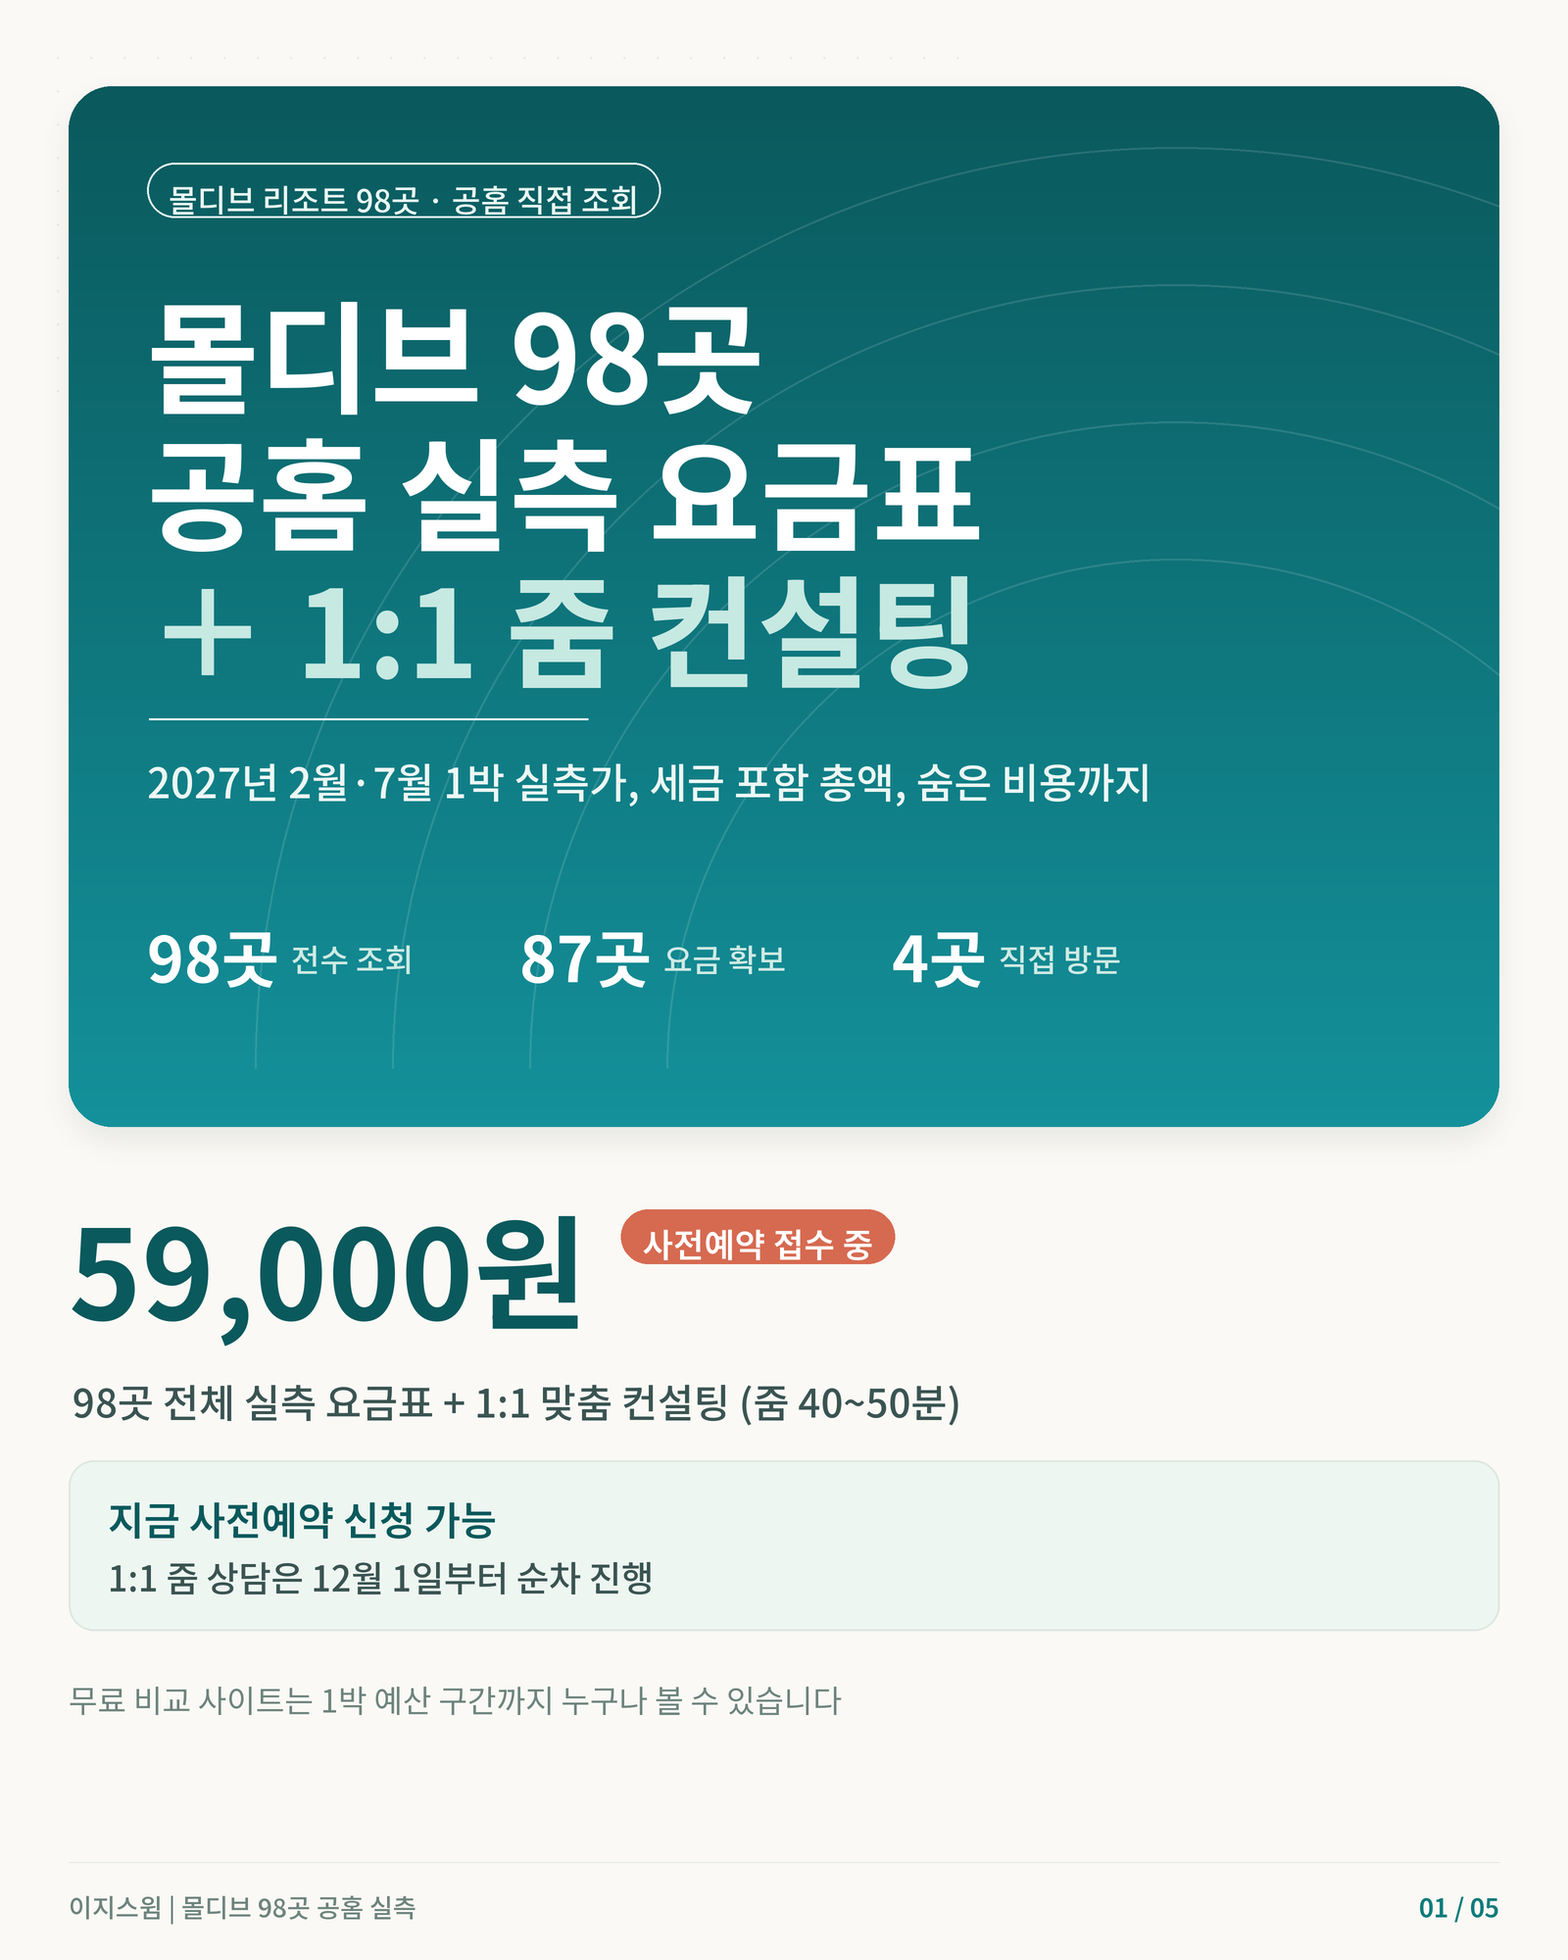
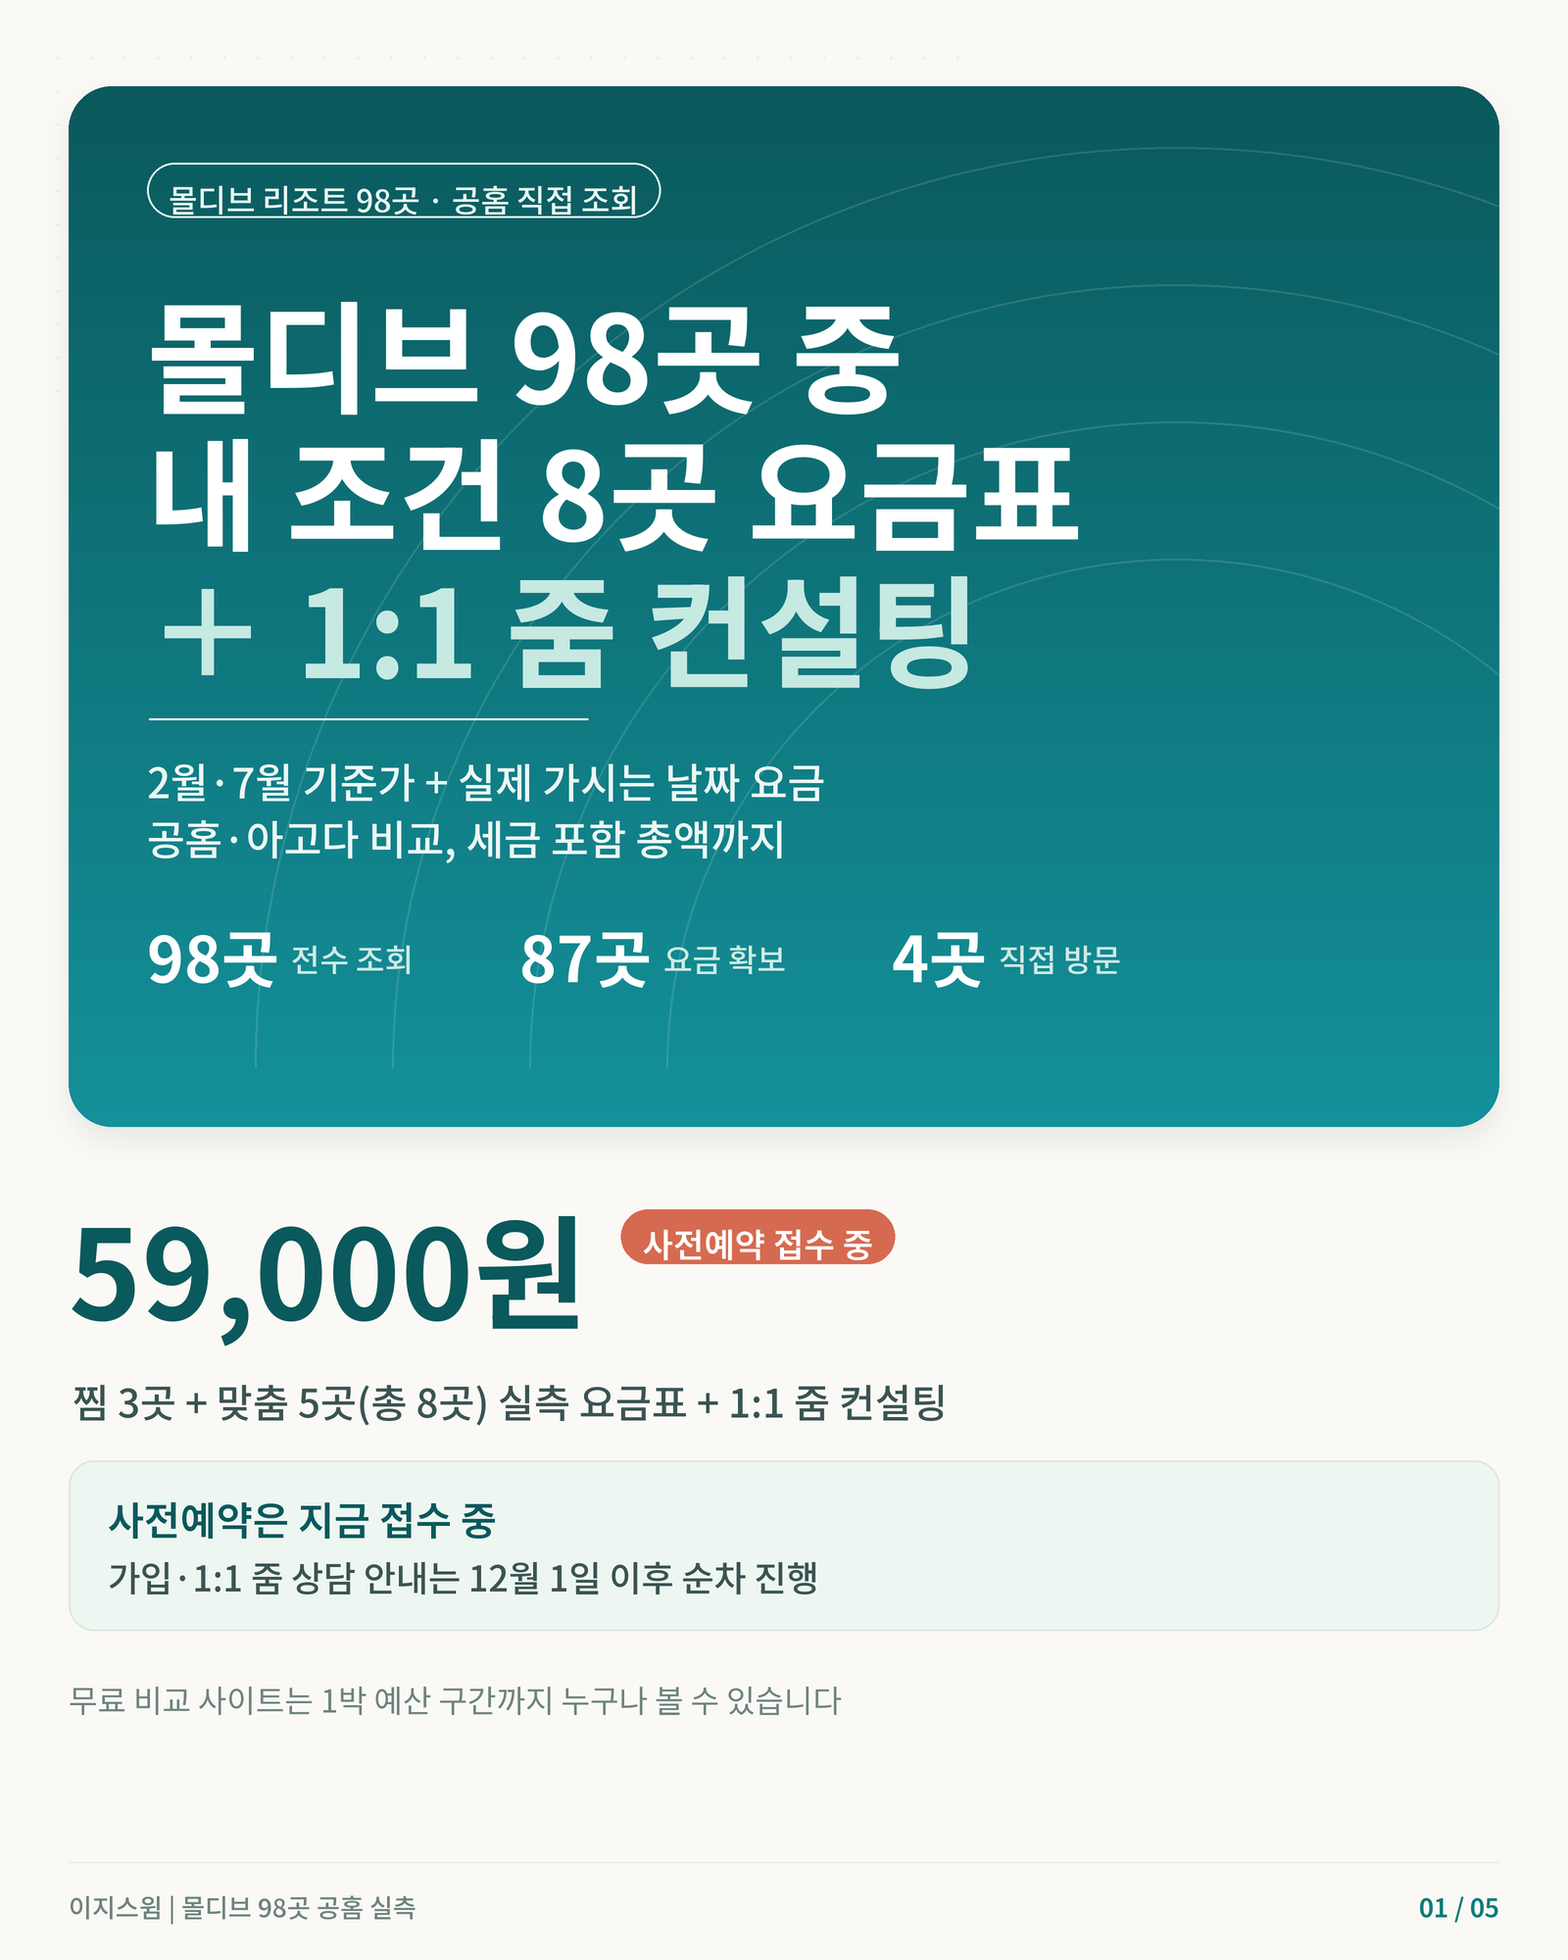
상세카드 문구를 '찜 3곳 + 맞춤 5곳(총 8곳) 실측 요금표'로 정리, 상담 12월 1일 이후 순차로 통일

diff --git a/index.html b/index.html
@@ -564,7 +564,7 @@ body{padding-bottom:86px}
           <div>
             <div class="eyebrow">이지의 몰디브 자료</div>
             <h2>정확한 2·7월 실측가가 필요하세요?</h2>
-            <p>리조트별 공홈 실측가·세금 포함 총액 계산표·7월 할인율은 59,000원 패키지에서 확인하세요. 무료 페이지는 예산대까지 보여드려요.</p>
+            <p>찜한 3곳 + 조건 맞춤 5곳(총 8곳)의 2·7월 기준가와 희망 날짜 실측가, 세금 포함 총액은 59,000원 패키지에서 확인하세요. 무료 페이지는 예산대까지 보여드려요.</p>
           </div>
           <div class="btns" style="display:flex;gap:7px;flex-wrap:wrap">
             <a class="btn primary" href="https://docs.google.com/forms/d/e/1FAIpQLSfBbRKPUfFeXjRlNFHVqY-H5gHcgKblJUALwyOMBn5VUtnkIw/viewform" target="_blank" rel="noopener">패키지 신청 (구글폼) ↗</a>
@@ -615,7 +615,7 @@ body{padding-bottom:86px}
         <section class="catalog">
           <div class="eyebrow">Maldives field notes</div>
           <h2>나의 바다, 전체 비교표</h2>
-          <p class="sub">성인 2인 · 객실 1실 기준으로 2027년 2월·7월 슬롯을 2026년 11월 24일에 조회한 기록입니다. 무료 페이지는 <b>1박 예산 구간</b>과 리조트 특징·장단점까지만 보여드리고, 리조트별 공홈 실측 금액과 세금 포함 총액은 59,000원 패키지에서 확인하실 수 있어요.</p>
+          <p class="sub">성인 2인 · 객실 1실 기준으로 2027년 2월·7월 슬롯을 2026년 11월 24일에 조회한 기록입니다. 무료 페이지는 <b>1박 예산 구간</b>과 리조트 특징·장단점까지만 보여드리고, 리조트별 공홈 실측 금액과 세금 포함 총액은 찜한 3곳 + 맞춤 5곳(총 8곳) 기준으로 59,000원 패키지에서 확인하실 수 있어요.</p>
 
           <div class="tools">
             <div class="field f2"><label for="q">이름 · 아톨 · 이동수단</label>
@@ -643,7 +643,7 @@ body{padding-bottom:86px}
 
           <div class="ctabar">
             <div class="txt"><b>정확한 2·7월 공홈 실측가와 세금 포함 총액이 필요하세요?</b>
-              <p>리조트별 비치·워터 1박 금액, 세금 포함 환산표, 7월 할인율은 59,000원 패키지에 담겨 있어요.</p></div>
+              <p>찜한 3곳 + 맞춤 5곳(총 8곳)의 비치·워터 1박 금액, 희망 날짜 실측가, 세금 포함 환산표는 59,000원 패키지에 담겨 있어요.</p></div>
             <div class="btns">
               <a class="btn form" href="https://docs.google.com/forms/d/e/1FAIpQLSfBbRKPUfFeXjRlNFHVqY-H5gHcgKblJUALwyOMBn5VUtnkIw/viewform" target="_blank" rel="noopener">패키지 신청 ↗</a>
               <a class="btn chat" href="https://app.notion.com/p/1-1-424ad1a95078812b999cc5a134099124" target="_blank" rel="noopener">1:1 맞춤 상담 ↗</a>
@@ -660,7 +660,7 @@ body{padding-bottom:86px}
               <li><b>조회 조건</b>: 2027-02-21~25(성수기) · 2027-07-18~22(비수기) 각 4박, 성인 2인 1실, USD.</li>
               <li><b>식사 플랜</b>: 하프보드(HB) 우선, HB를 팔지 않는 리조트는 실제 판매 플랜(올인클루시브·풀보드·조식) 기준. 카드의 플랜 표기를 확인하세요.</li>
               <li><b>예산 구간</b>: 1박 표시가에 봉사료·GST·그린택스를 더해 계산한 1박 금액을 구간으로만 표기합니다. 2월은 세금 포함 1박 기준, 7월은 비수기 기준이에요.</li>
-              <li><b>비공개 항목</b>: 리조트별 정확한 비치·워터 1박 달러 금액, 세금 포함 환산액, 7월 할인율은 무료 페이지에 넣지 않았요. 59,000원 패키지에 별도 정리되어 있습니다.</li>
+              <li><b>비공개 항목</b>: 리조트별 정확한 비치·워터 1박 달러 금액, 세금 포함 환산액은 무료 페이지에 넣지 않았어요. 59,000원 패키지에서는 찜한 3곳 + 맞춤 5곳(총 8곳)만 정리해 드립니다.</li>
               <li><b>대체 기준월</b>: 2월이 막힌 일부 리조트는 1월 또는 3월 날짜로 조회했고, 카드에 표시했습니다.</li>
               <li>요금은 프로모션·환율·재고에 따라 매일 바뀝니다. 예약 전 공홈에서 다시 확인하세요.</li>
             </ul>
@@ -708,7 +708,7 @@ body{padding-bottom:86px}
 
         <div class="bcard">
           <h2 style="font-size:15.5px;font-weight:600;letter-spacing:-.3px;margin-bottom:6px">2인 4박 총액 계산기</h2>
-          <div class="bnote">세금·봉사료가 견적에 포함됐는지 먼저 확인하세요. 포함이면 세금 칸에 0을 적어요. 금액을 모르면 비워두세요. 환율 변환 없이 표시만 바뀝니다. 리조트별 정확한 공홈 실측가는 59,000원 패키지에서 확인한 뒤 입력할 수 있어요.</div>
+          <div class="bnote">세금·봉사료가 견적에 포함됐는지 먼저 확인하세요. 포함이면 세금 칸에 0을 적어요. 금액을 모르면 비워두세요. 환율 변환 없이 표시만 바뀝니다. 리조트별 정확한 공홈 실측가는 59,000원 패키지(찜 3곳 + 맞춤 5곳)에서 확인한 뒤 입력할 수 있어요.</div>
           <div class="bgrid">
             <div><label for="bStay">숙박 총액 (2인 4박)</label><input id="bStay" type="number" inputmode="numeric" placeholder="확인한 견적 금액 입력 · 포함 또는 비용 없음은 0"></div>
             <div><label for="bTransfer">왕복 트랜스퍼 (2인)</label><input id="bTransfer" type="number" inputmode="numeric" placeholder="확인한 금액 입력 · 포함 또는 비용 없음은 0"></div>
@@ -1086,7 +1086,7 @@ body{padding-bottom:86px}
   }
 
   function pkgHtml(){
-    return '<div class="pkg"><b>59,000원 올인원 패키지</b> — 리조트별 정확한 2·7월 공홈 실측가, 세금 포함 총액 계산표, 7월 할인율 + 1:1 컨설팅(후보 3곳·대안 1곳, 공홈·OTA 총액 비교, 여행사에 보낼 질문 1장). '+
+    return '<div class="pkg"><b>59,000원 올인원 패키지</b> — 98곳 DB에서 고른 찜 3곳 + 맞춤 5곳(총 8곳)의 2·7월 기준가·희망 날짜 실측가, 세금 포함 총액 + 1:1 컨설팅(공홈·OTA 총액 비교, 여행사에 보낼 질문 1장). '+
       '<a href="'+FORM+'" target="_blank" rel="noopener">구글폼 신청 →</a> · <a href="'+NOTION+'" target="_blank" rel="noopener">1:1 맞춤 상담 →</a></div>';
   }
 
@@ -1115,7 +1115,7 @@ body{padding-bottom:86px}
       defs.map(function(d){
         return '<tr><th class="rowh">'+d[0]+'</th>'+rows.map(function(r){ return '<td>'+d[1](r)+'</td>'; }).join('')+'</tr>';
       }).join('')+'</tbody></table></div>'+
-      '<p class="cmp-note">예산대는 2027-02-21~25 · 07-18~22 각 4박, 성인 2인 1실 기준 공홈 조회값을 세금 포함 1박 구간으로 바꾼 것입니다. 리조트별 정확한 금액·세금 포함 총액·7월 할인율은 59,000원 패키지에서 확인하세요.</p>'+
+      '<p class="cmp-note">예산대는 2027-02-21~25 · 07-18~22 각 4박, 성인 2인 1실 기준 공홈 조회값을 세금 포함 1박 구간으로 바꾼 것입니다. 찜한 3곳 + 맞춤 5곳(총 8곳)의 정확한 금액·세금 포함 총액은 59,000원 패키지에서 확인하세요.</p>'+
       '<div id="pkgBox" hidden>'+pkgHtml()+'</div>';
 
     $('#shTitle').textContent = '비교함 · '+rows.length+'곳';

diff --git a/free_app.js b/free_app.js
@@ -309,7 +309,7 @@
   }
 
   function pkgHtml(){
-    return '<div class="pkg"><b>59,000원 올인원 패키지</b> — 리조트별 정확한 2·7월 공홈 실측가, 세금 포함 총액 계산표, 7월 할인율 + 1:1 컨설팅(후보 3곳·대안 1곳, 공홈·OTA 총액 비교, 여행사에 보낼 질문 1장). '+
+    return '<div class="pkg"><b>59,000원 올인원 패키지</b> — 98곳 DB에서 고른 찜 3곳 + 맞춤 5곳(총 8곳)의 2·7월 기준가·희망 날짜 실측가, 세금 포함 총액 + 1:1 컨설팅(공홈·OTA 총액 비교, 여행사에 보낼 질문 1장). '+
       '<a href="'+FORM+'" target="_blank" rel="noopener">구글폼 신청 →</a> · <a href="'+NOTION+'" target="_blank" rel="noopener">1:1 맞춤 상담 →</a></div>';
   }
 
@@ -338,7 +338,7 @@
       defs.map(function(d){
         return '<tr><th class="rowh">'+d[0]+'</th>'+rows.map(function(r){ return '<td>'+d[1](r)+'</td>'; }).join('')+'</tr>';
       }).join('')+'</tbody></table></div>'+
-      '<p class="cmp-note">예산대는 2027-02-21~25 · 07-18~22 각 4박, 성인 2인 1실 기준 공홈 조회값을 세금 포함 1박 구간으로 바꾼 것입니다. 리조트별 정확한 금액·세금 포함 총액·7월 할인율은 59,000원 패키지에서 확인하세요.</p>'+
+      '<p class="cmp-note">예산대는 2027-02-21~25 · 07-18~22 각 4박, 성인 2인 1실 기준 공홈 조회값을 세금 포함 1박 구간으로 바꾼 것입니다. 찜한 3곳 + 맞춤 5곳(총 8곳)의 정확한 금액·세금 포함 총액은 59,000원 패키지에서 확인하세요.</p>'+
       '<div id="pkgBox" hidden>'+pkgHtml()+'</div>';
 
     $('#shTitle').textContent = '비교함 · '+rows.length+'곳';

diff --git a/build_v2.py b/build_v2.py
@@ -618,7 +618,7 @@ body{padding-bottom:86px}
           <div>
             <div class="eyebrow">이지의 몰디브 자료</div>
             <h2>정확한 2·7월 실측가가 필요하세요?</h2>
-            <p>리조트별 공홈 실측가·세금 포함 총액 계산표·7월 할인율은 59,000원 패키지에서 확인하세요. 무료 페이지는 예산대까지 보여드려요.</p>
+            <p>찜한 3곳 + 조건 맞춤 5곳(총 8곳)의 2·7월 기준가와 희망 날짜 실측가, 세금 포함 총액은 59,000원 패키지에서 확인하세요. 무료 페이지는 예산대까지 보여드려요.</p>
           </div>
           <div class="btns" style="display:flex;gap:7px;flex-wrap:wrap">
             <a class="btn primary" href="https://docs.google.com/forms/d/e/1FAIpQLSfBbRKPUfFeXjRlNFHVqY-H5gHcgKblJUALwyOMBn5VUtnkIw/viewform" target="_blank" rel="noopener">패키지 신청 (구글폼) ↗</a>
@@ -669,7 +669,7 @@ body{padding-bottom:86px}
         <section class="catalog">
           <div class="eyebrow">Maldives field notes</div>
           <h2>나의 바다, 전체 비교표</h2>
-          <p class="sub">성인 2인 · 객실 1실 기준으로 2027년 2월·7월 슬롯을 2026년 11월 24일에 조회한 기록입니다. 무료 페이지는 <b>1박 예산 구간</b>과 리조트 특징·장단점까지만 보여드리고, 리조트별 공홈 실측 금액과 세금 포함 총액은 59,000원 패키지에서 확인하실 수 있어요.</p>
+          <p class="sub">성인 2인 · 객실 1실 기준으로 2027년 2월·7월 슬롯을 2026년 11월 24일에 조회한 기록입니다. 무료 페이지는 <b>1박 예산 구간</b>과 리조트 특징·장단점까지만 보여드리고, 리조트별 공홈 실측 금액과 세금 포함 총액은 찜한 3곳 + 맞춤 5곳(총 8곳) 기준으로 59,000원 패키지에서 확인하실 수 있어요.</p>
 
           <div class="tools">
             <div class="field f2"><label for="q">이름 · 아톨 · 이동수단</label>
@@ -697,7 +697,7 @@ body{padding-bottom:86px}
 
           <div class="ctabar">
             <div class="txt"><b>정확한 2·7월 공홈 실측가와 세금 포함 총액이 필요하세요?</b>
-              <p>리조트별 비치·워터 1박 금액, 세금 포함 환산표, 7월 할인율은 59,000원 패키지에 담겨 있어요.</p></div>
+              <p>찜한 3곳 + 맞춤 5곳(총 8곳)의 비치·워터 1박 금액, 희망 날짜 실측가, 세금 포함 환산표는 59,000원 패키지에 담겨 있어요.</p></div>
             <div class="btns">
               <a class="btn form" href="https://docs.google.com/forms/d/e/1FAIpQLSfBbRKPUfFeXjRlNFHVqY-H5gHcgKblJUALwyOMBn5VUtnkIw/viewform" target="_blank" rel="noopener">패키지 신청 ↗</a>
               <a class="btn chat" href="https://app.notion.com/p/1-1-424ad1a95078812b999cc5a134099124" target="_blank" rel="noopener">1:1 맞춤 상담 ↗</a>
@@ -714,7 +714,7 @@ body{padding-bottom:86px}
               <li><b>조회 조건</b>: 2027-02-21~25(성수기) · 2027-07-18~22(비수기) 각 4박, 성인 2인 1실, USD.</li>
               <li><b>식사 플랜</b>: 하프보드(HB) 우선, HB를 팔지 않는 리조트는 실제 판매 플랜(올인클루시브·풀보드·조식) 기준. 카드의 플랜 표기를 확인하세요.</li>
               <li><b>예산 구간</b>: 1박 표시가에 봉사료·GST·그린택스를 더해 계산한 1박 금액을 구간으로만 표기합니다. 2월은 세금 포함 1박 기준, 7월은 비수기 기준이에요.</li>
-              <li><b>비공개 항목</b>: 리조트별 정확한 비치·워터 1박 달러 금액, 세금 포함 환산액, 7월 할인율은 무료 페이지에 넣지 않았요. 59,000원 패키지에 별도 정리되어 있습니다.</li>
+              <li><b>비공개 항목</b>: 리조트별 정확한 비치·워터 1박 달러 금액, 세금 포함 환산액은 무료 페이지에 넣지 않았어요. 59,000원 패키지에서는 찜한 3곳 + 맞춤 5곳(총 8곳)만 정리해 드립니다.</li>
               <li><b>대체 기준월</b>: 2월이 막힌 일부 리조트는 1월 또는 3월 날짜로 조회했고, 카드에 표시했습니다.</li>
               <li>요금은 프로모션·환율·재고에 따라 매일 바뀝니다. 예약 전 공홈에서 다시 확인하세요.</li>
             </ul>
@@ -762,7 +762,7 @@ body{padding-bottom:86px}
 
         <div class="bcard">
           <h2 style="font-size:15.5px;font-weight:600;letter-spacing:-.3px;margin-bottom:6px">2인 4박 총액 계산기</h2>
-          <div class="bnote">세금·봉사료가 견적에 포함됐는지 먼저 확인하세요. 포함이면 세금 칸에 0을 적어요. 금액을 모르면 비워두세요. 환율 변환 없이 표시만 바뀝니다. 리조트별 정확한 공홈 실측가는 59,000원 패키지에서 확인한 뒤 입력할 수 있어요.</div>
+          <div class="bnote">세금·봉사료가 견적에 포함됐는지 먼저 확인하세요. 포함이면 세금 칸에 0을 적어요. 금액을 모르면 비워두세요. 환율 변환 없이 표시만 바뀝니다. 리조트별 정확한 공홈 실측가는 59,000원 패키지(찜 3곳 + 맞춤 5곳)에서 확인한 뒤 입력할 수 있어요.</div>
           <div class="bgrid">
             <div><label for="bStay">숙박 총액 (2인 4박)</label><input id="bStay" type="number" inputmode="numeric" placeholder="확인한 견적 금액 입력 · 포함 또는 비용 없음은 0"></div>
             <div><label for="bTransfer">왕복 트랜스퍼 (2인)</label><input id="bTransfer" type="number" inputmode="numeric" placeholder="확인한 금액 입력 · 포함 또는 비용 없음은 0"></div>
